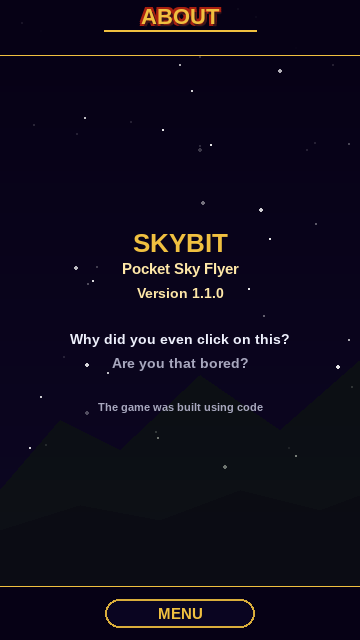
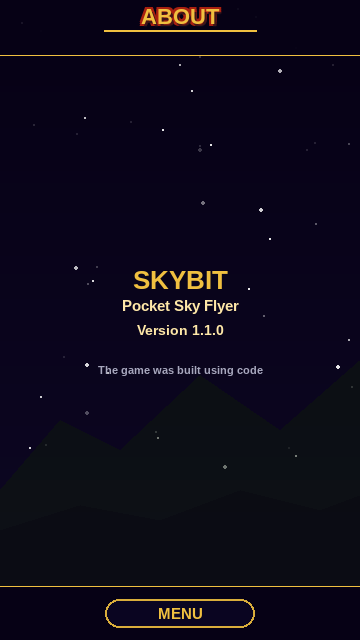
About: drop the self-aware roast lines
Remove the "Why did you even click on this? / Are you that bored?" lines;
the About screen now shows just the title, version, and "The game was built
using code".

Claude-Session: https://claude.ai/code/session_01ARwhW1U7KdSUdqvnUSuQi9

diff --git a/game/about_screen.py b/game/about_screen.py
@@ -43,10 +43,7 @@ class AboutScene:
         ("SKYBIT",                        26, _GOLD_BRIGHT, 0),
         ("Pocket Sky Flyer",              15, _GOLD_PALE,   2),
         (f"Version {VERSION}",            14, _GOLD_PALE,   8),
-        # A little self-aware roast for anyone who wanders in here.
-        ("Why did you even click on this?", 14, _WHITE,     30),
-        ("Are you that bored?",           14, _DIM,         8),
-        ("The game was built using code",  11, _DIM,        30),
+        ("The game was built using code",  11, _DIM,        26),
     )
 
     def __init__(self):
